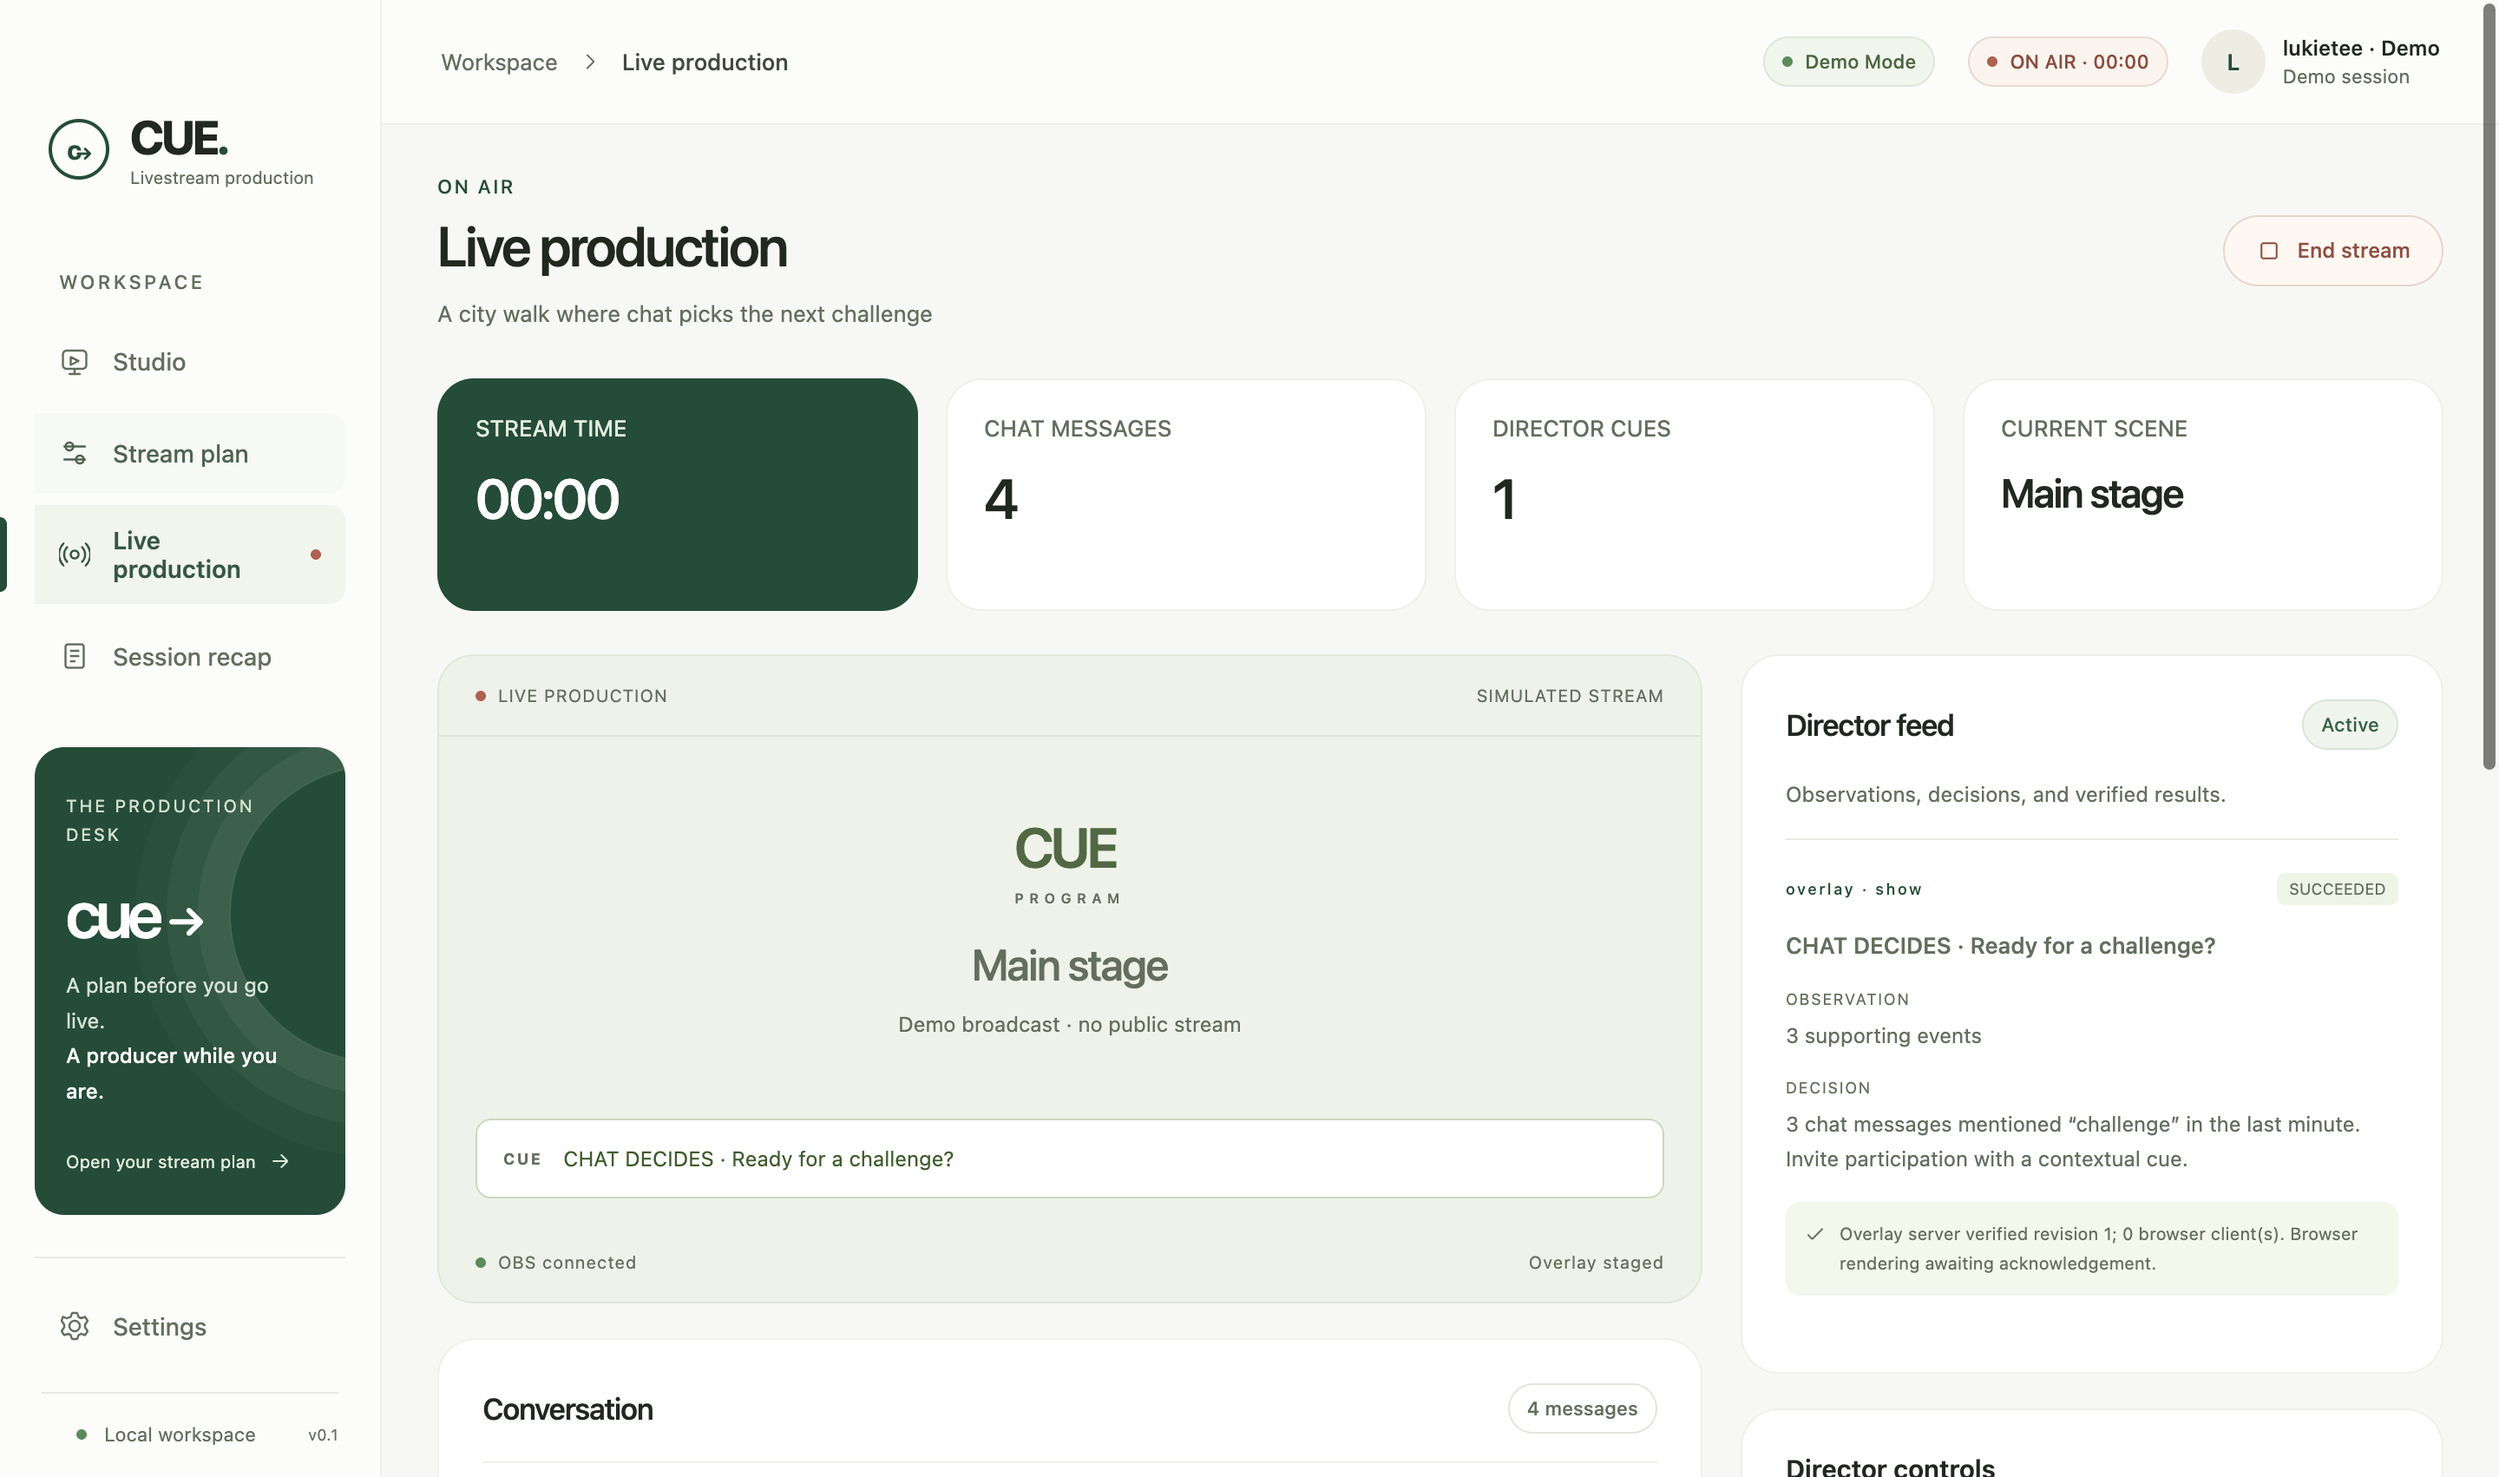
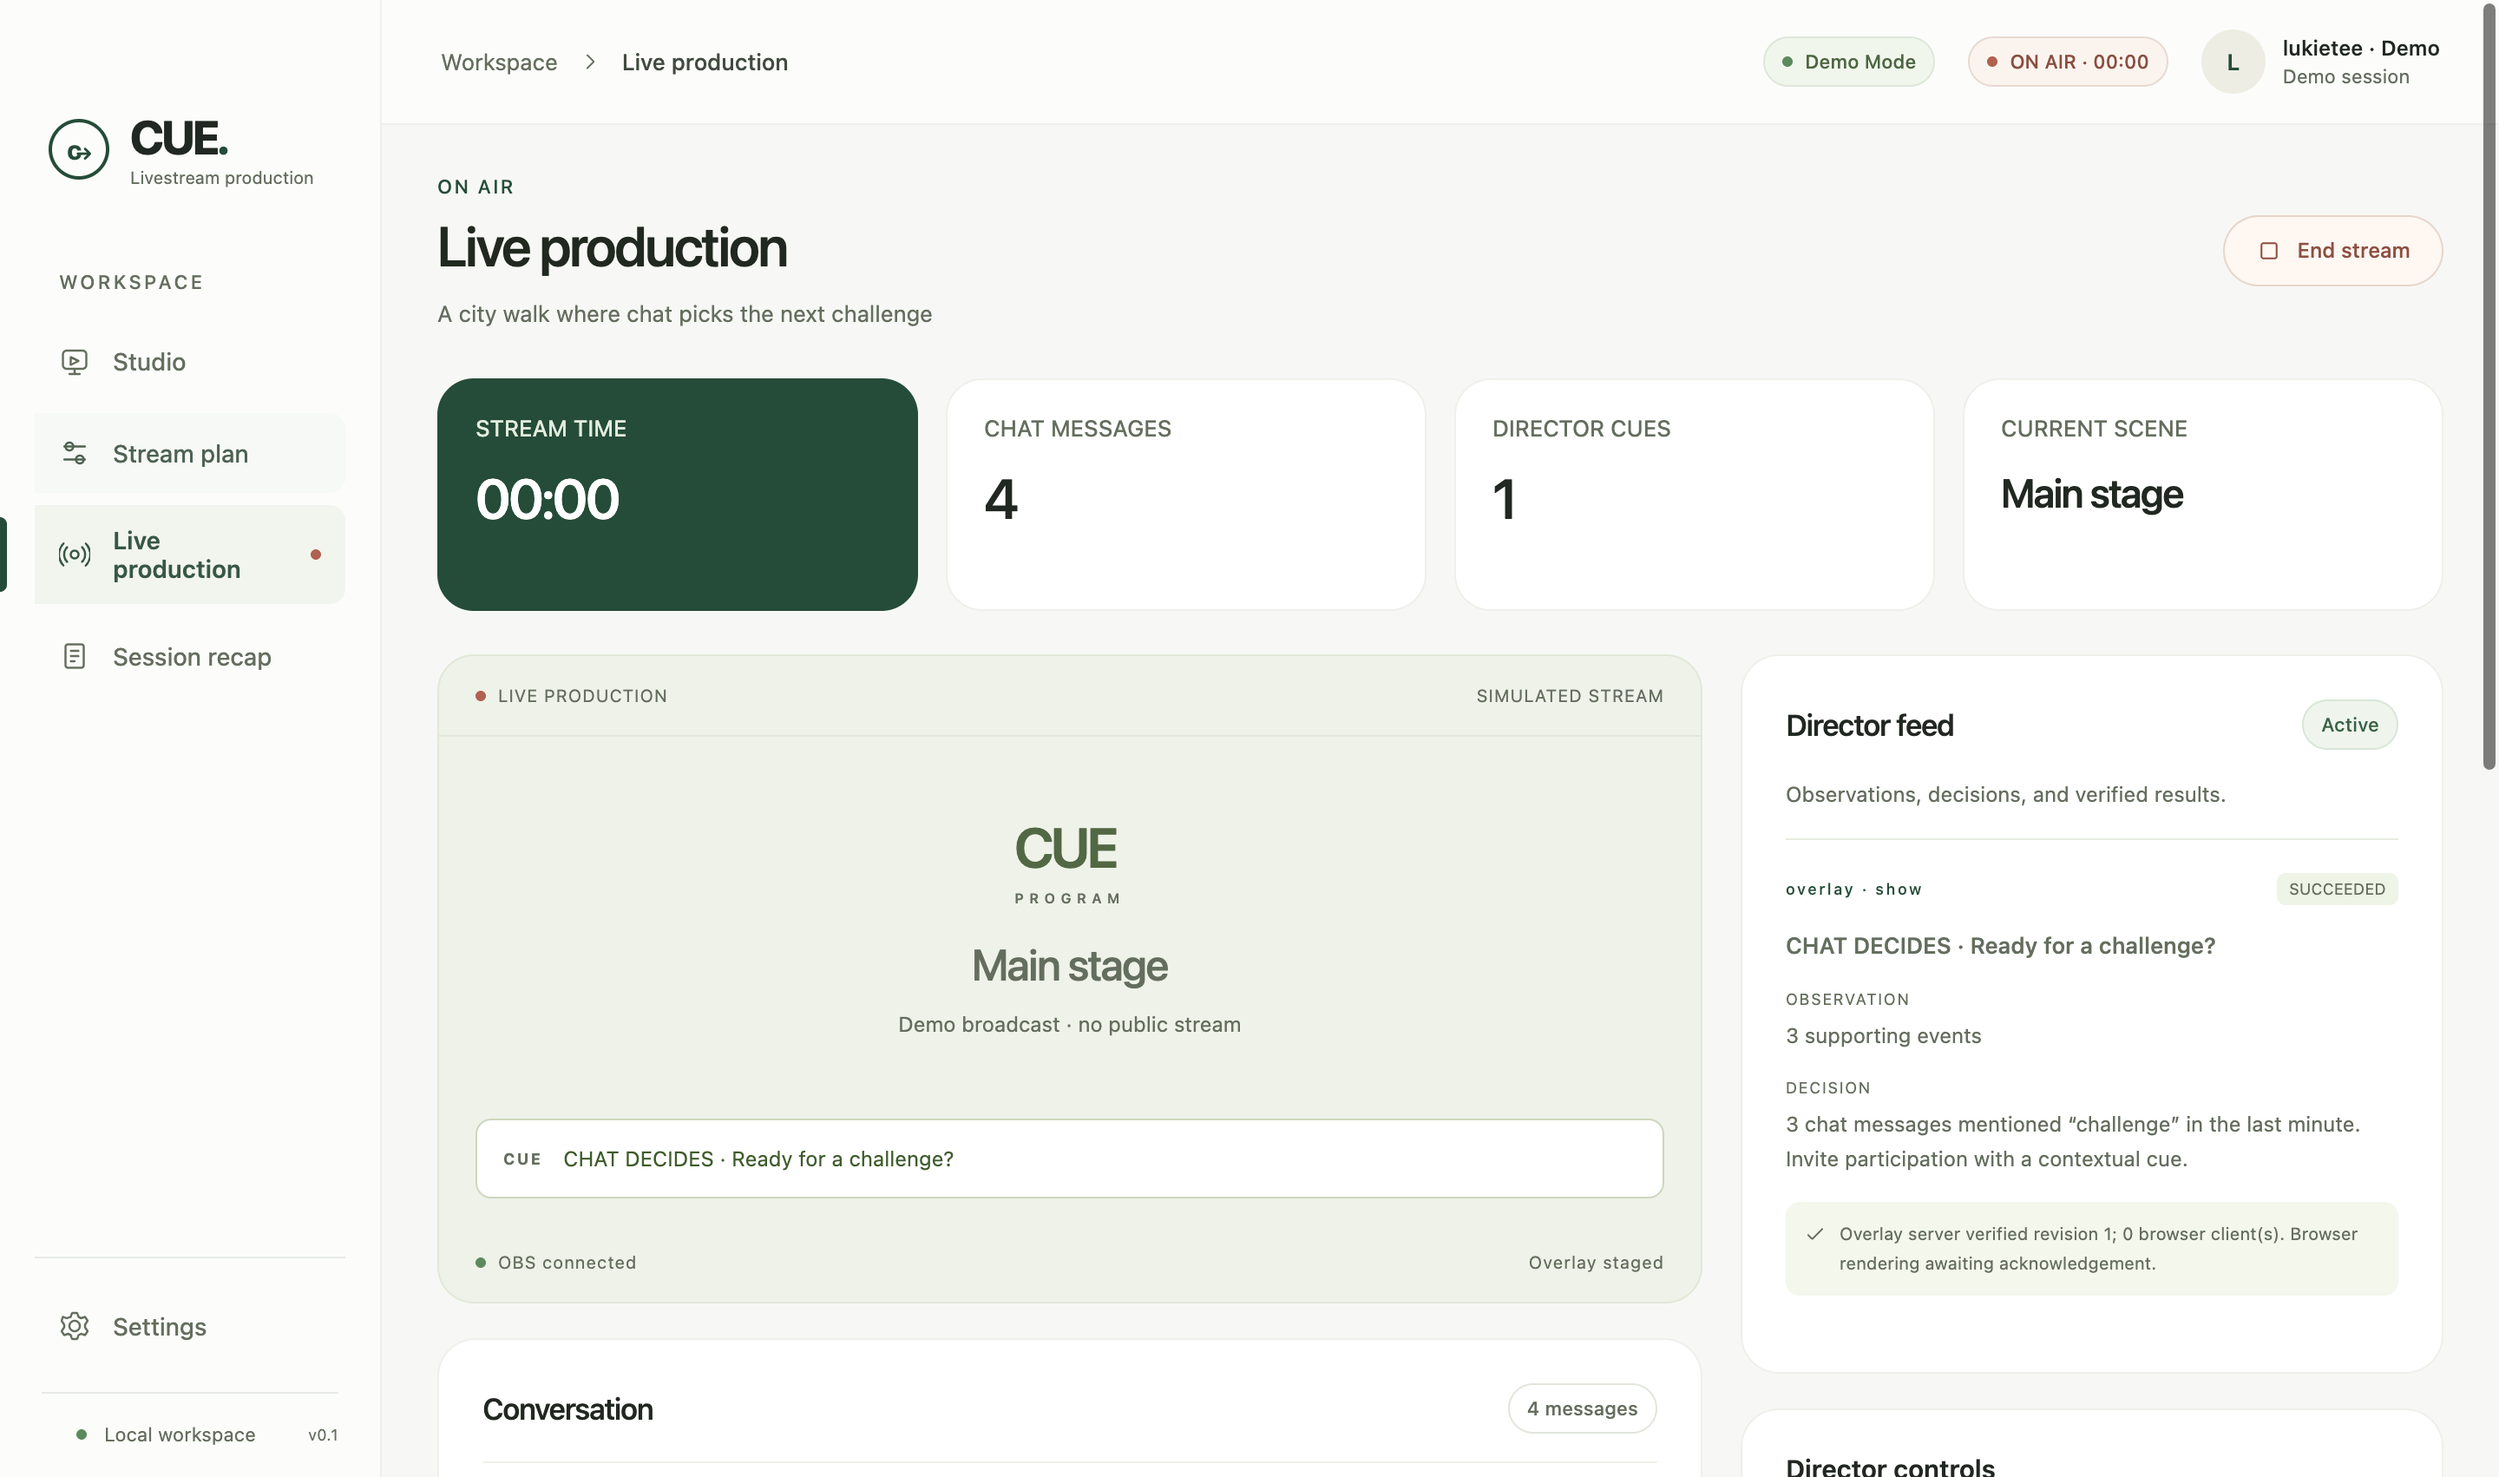
ui: remove the redundant production desk sidebar card

Changed region(s): [[0.0, 0.4982, 0.1562, 0.8408]]

diff --git a/apps/desktop/src/styles.css b/apps/desktop/src/styles.css
@@ -253,89 +253,8 @@ html[data-shell='desktop'] :is(button, a, input, textarea, select, label, [role=
 .nav-item .live-dot {
   margin-left: auto;
 }
-.sidebar-show {
-  position: relative;
-  isolation: isolate;
-  overflow: hidden;
-  margin: auto 0 24px;
-  padding: 24px 18px;
-  border-radius: 17px;
-  background: #134d36;
-  color: #f8fbf6;
-}
-.sidebar-show::after {
-  content: '';
-  z-index: -1;
-  position: absolute;
-  width: 170px;
-  height: 170px;
-  border: 1px solid #bad3bb30;
-  border-radius: 50%;
-  right: -105px;
-  top: 10px;
-  box-shadow:
-    0 0 0 18px #bad3bb13,
-    0 0 0 36px #bad3bb0d,
-    0 0 0 54px #bad3bb08;
-}
-.sidebar-show .eyebrow,
-.sidebar-show > span:first-child {
-  font-size: 10px;
-  letter-spacing: 1.3px;
-  color: #d0e3ce;
-}
-.sidebar-show h3 {
-  margin-top: 15px;
-  font-size: 21px;
-  font-weight: 500;
-  letter-spacing: -0.7px;
-  line-height: 1.3;
-}
-.sidebar-show p {
-  margin-top: 12px;
-  font-size: 12px;
-  line-height: 1.7;
-  color: #d3e3d2;
-}
-.sidebar-show strong {
-  color: #fff;
-  font-weight: 500;
-}
-.sidebar-show > span:last-child {
-  display: block;
-  margin-top: 17px;
-  font-size: 11px;
-  color: #d3e3d2;
-}
-.sidebar-note-label {
-  font-size: 9px;
-  letter-spacing: 1.2px;
-  color: #d0e3ce;
-}
-.sidebar-note-mark {
-  font-size: 38px;
-  letter-spacing: -3px;
-  margin: 20px 0 9px;
-  line-height: 1;
-  font-weight: 550;
-  color: #fff;
-}
-.sidebar-note-mark > span {
-  font-size: 26px;
-  margin-left: 4px;
-}
-.sidebar-note-link {
-  justify-content: flex-start;
-  font-size: 10px;
-  margin-top: 23px;
-  color: #e1eddb;
-  gap: 7px;
-  text-align: left;
-}
-.sidebar-note-link:hover {
-  color: #fff;
-}
 .sidebar-bottom {
+  margin-top: auto;
   padding-top: 16px;
   border-top: 1px solid var(--border);
 }
@@ -2171,12 +2090,6 @@ select {
   .brand-symbol {
     font-size: 25px;
   }
-  .sidebar-show {
-    padding: 22px 15px;
-  }
-  .sidebar-show h3 {
-    font-size: 20px;
-  }
   .topbar {
     padding: 0 25px;
     min-height: 68px;
@@ -2455,18 +2368,6 @@ select {
   .nav-item.active::before {
     left: -12px;
   }
-  .sidebar-show {
-    padding: 20px 13px;
-  }
-  .sidebar-show h3 {
-    font-size: 18px;
-  }
-  .sidebar-show p {
-    font-size: 10px;
-  }
-  .sidebar-show > span:last-child {
-    font-size: 9px;
-  }
   .profile {
     gap: 7px;
   }
@@ -2631,7 +2532,6 @@ select {
     font-size: 8px;
   }
   .workspace-label,
-  .sidebar-show,
   .profile {
     display: none;
   }

diff --git a/apps/desktop/src/main.tsx b/apps/desktop/src/main.tsx
@@ -381,20 +381,6 @@ function App() {
             </button>
           ))}
         </nav>
-        <div className="sidebar-show">
-          <span className="sidebar-note-label">THE PRODUCTION DESK</span>
-          <div className="sidebar-note-mark" aria-hidden="true">
-            cue<span>→</span>
-          </div>
-          <p>
-            A plan before you go live.
-            <br />
-            <strong>A producer while you are.</strong>
-          </p>
-          <button className="sidebar-note-link" onClick={() => setView('setup')}>
-            Open your stream plan <Icon name="arrow" size={14} />
-          </button>
-        </div>
         <div className="sidebar-bottom">
           <button
             className={`nav-item ${view === 'settings' ? 'active' : ''}`}

diff --git a/docs/DESIGN.md b/docs/DESIGN.md
@@ -2,7 +2,7 @@
 
 CUE uses a light production workspace inspired by the provided dashboard reference: edge-to-edge content, quiet navigation, forest green controls, and flat white cards. The native macOS window supplies the rounded outer corners; there is no second inset web-page frame or separate dark title-bar strip. Real traffic-light controls sit above the sidebar, the header is draggable, and controls remain clickable. The sidebar stays in place while content scrolls. The main composition is an overview row above a stream brief, directing styles, and studio checklist. Every number comes from the active session; no engagement graphs or outcome metrics are invented.
 
-Typography and spacing provide the hierarchy. Numbered sections and directing styles replace decorative sparkle imagery and repeated icon badges. Icons remain on navigation and controls where they clarify an action. A dark green production note and featured session card anchor the otherwise light workspace.
+Typography and spacing provide the hierarchy. Numbered sections and directing styles replace decorative sparkle imagery and repeated icon badges. Icons remain on navigation and controls where they clarify an action. The featured session card anchors the otherwise light workspace. Sidebar navigation is kept minimal, with settings at the bottom.
 
 The same colors, controls, field treatments and spacing apply to the plan editor, live desk, recap, settings, confirmations, errors, and Twitch authorization. Permission controls and explicit stream start/stop confirmations remain functional. Connection labels distinguish OBS connectivity from actual broadcasting, and the director has a standby state outside active production.
 
